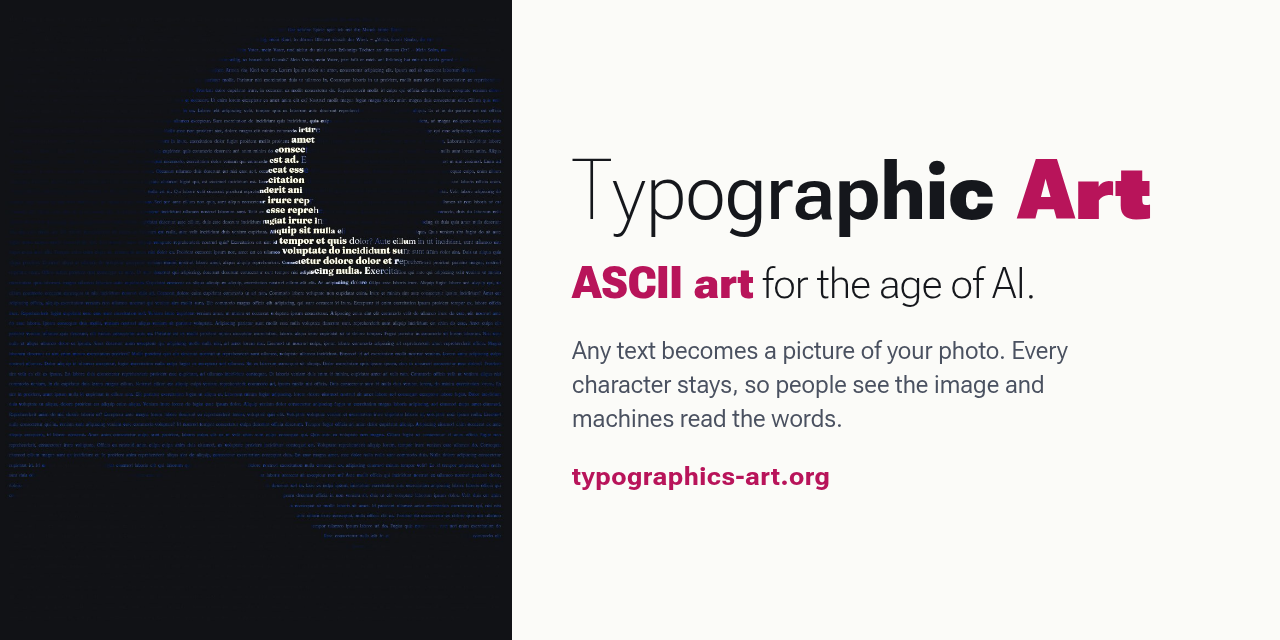
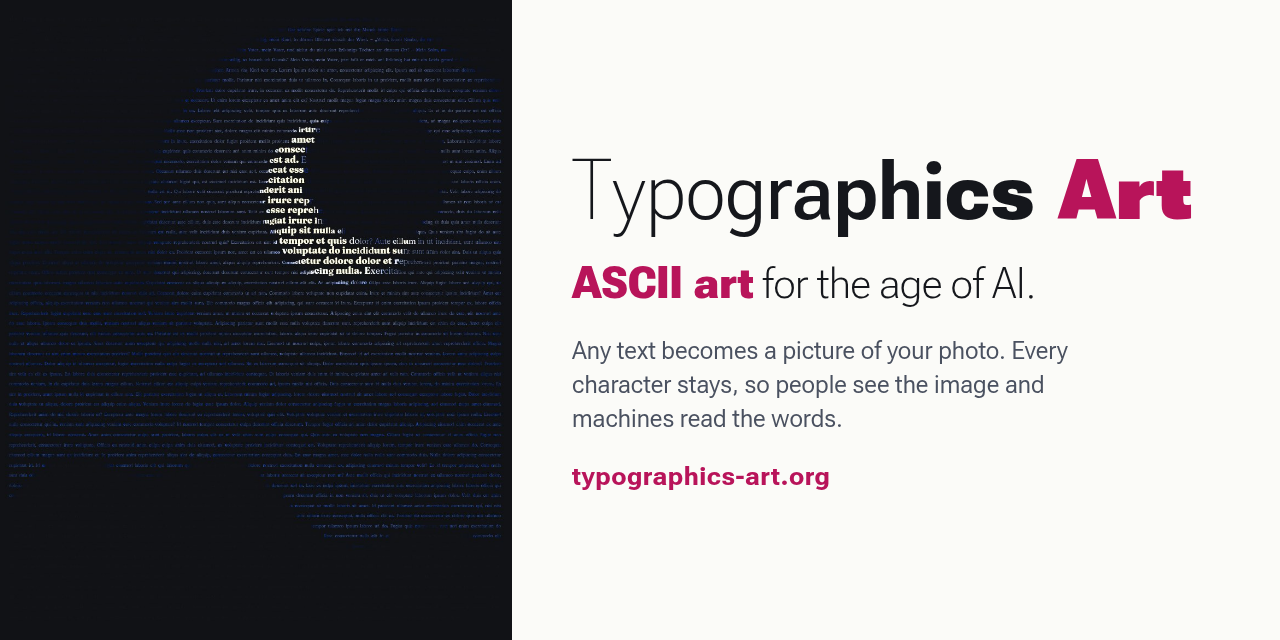
Rename the brand to Typographics Art, matching typographics-art.org
Name, wordmarks, logo and social image, documentation, examples, website, topics and keywords. The adjective 'typographic' in running text is unchanged.

Changed region(s): [[0.5938, 0.25, 0.9375, 0.3438]]

diff --git a/index.html b/index.html
@@ -3,12 +3,12 @@
 <head>
 <meta charset="utf-8">
 <meta name="viewport" content="width=device-width, initial-scale=1, viewport-fit=cover">
-<title>Typographic Art</title>
-<meta name="description" content="Typographic Art is ASCII art for the age of AI: any text, set letter by letter so that it forms a picture. People see the image, machines still read every word. Free and open source.">
+<title>Typographics Art</title>
+<meta name="description" content="Typographics Art is ASCII art for the age of AI: any text, set letter by letter so that it forms a picture. People see the image, machines still read every word. Free and open source.">
 <link rel="canonical" href="https://typographics-art.org/">
 <meta property="og:type" content="website">
 <meta property="og:url" content="https://typographics-art.org/">
-<meta property="og:title" content="Typographic Art: ASCII art for the age of AI">
+<meta property="og:title" content="Typographics Art: ASCII art for the age of AI">
 <meta property="og:description" content="Any text becomes a picture, and stays text. People see the image, machines read every word.">
 <meta property="og:image" content="https://typographics-art.org/assets/social.png">
 <meta property="og:image:width" content="1280">
@@ -21,8 +21,8 @@
 {
   "@context": "https://schema.org",
   "@graph": [
-    { "@type": "WebSite", "name": "Typographic Art", "url": "https://typographics-art.org/", "inLanguage": ["en", "de"] },
-    { "@type": "SoftwareApplication", "name": "Typographic Art", "url": "https://typographics-art.org/app",
+    { "@type": "WebSite", "name": "Typographics Art", "url": "https://typographics-art.org/", "inLanguage": ["en", "de"] },
+    { "@type": "SoftwareApplication", "name": "Typographics Art", "url": "https://typographics-art.org/app",
       "applicationCategory": "DesignApplication", "operatingSystem": "Any (web browser)", "isAccessibleForFree": true,
       "license": "https://opensource.org/licenses/MIT", "codeRepository": "https://github.com/typ0graphic5/tg-art",
       "description": "Sets any text letter by letter so that it forms a picture of a photo, while the text stays readable for machines.",
@@ -151,7 +151,7 @@ footer a{color:inherit}
 <body>
 <header class="top">
   <div class="wrap">
-    <a class="brand" href="./" aria-label="Typographic Art home" id="brand"></a>
+    <a class="brand" href="./" aria-label="Typographics Art home" id="brand"></a>
     <nav class="main" aria-label="Sections">
       <a href="#idea" data-i18n="nav.idea">The idea</a>
       <a href="#how" data-i18n="nav.how">How it works</a>
@@ -170,7 +170,7 @@ footer a{color:inherit}
 <section class="hero">
   <div class="wrap">
     <div>
-      <p class="kicker" data-i18n="hero.kicker">Typographic Art · open source</p>
+      <p class="kicker" data-i18n="hero.kicker">Typographics Art · open source</p>
       <h1><span class="w" data-i18n="hero.h1a">ASCII art</span> <span class="w" data-i18n="hero.h1b">for the age of AI.</span></h1>
       <p class="lead" data-i18n="hero.lead">Any text becomes a picture of your photo, and stays text. Every letter keeps its place; only its weight, width, size and colour change. People see the image. Machines read every word.</p>
       <div class="ctas">
@@ -205,7 +205,7 @@ footer a{color:inherit}
   <div class="wrap">
     <p class="kicker" data-i18n="idea.kicker">The idea</p>
     <h2 data-i18n="idea.h">ASCII art throws the words away. We keep them.</h2>
-    <p class="lead" data-i18n="idea.lead">ASCII art chooses a character for every cell of a grid; the characters are just shading. Typographic Art turns that around: the text fixes the characters, and only their typography is chosen. The picture is for people. The text stays for machines.</p>
+    <p class="lead" data-i18n="idea.lead">ASCII art chooses a character for every cell of a grid; the characters are just shading. Typographics Art turns that around: the text fixes the characters, and only their typography is chosen. The picture is for people. The text stays for machines.</p>
     <div class="duo">
       <div class="panel">
         <h3 data-i18n="duo.see">What a person sees</h3>
@@ -220,7 +220,7 @@ footer a{color:inherit}
     </div>
     <div class="table-wrap">
       <table class="compare">
-        <thead><tr><th></th><th>ASCII art</th><th>Typographic Art</th></tr></thead>
+        <thead><tr><th></th><th>ASCII art</th><th>Typographics Art</th></tr></thead>
         <tbody>
           <tr><td data-i18n="c.chosen">What is chosen</td><td data-i18n="c.chosen.a">a character for each cell</td><td data-i18n="c.chosen.t">the typography of each character</td></tr>
           <tr><td data-i18n="c.text">The text</td><td data-i18n="c.text.a">lost</td><td data-i18n="c.text.t">kept 1:1, in reading order</td></tr>
@@ -285,7 +285,7 @@ footer a{color:inherit}
   <div class="wrap">
     <p class="kicker" style="color:#ff7fb2" data-i18n="ai.kicker">For AI</p>
     <h2 data-i18n="ai.h">Art that machines can read.</h2>
-    <p class="lead" data-i18n="ai.lead">More and more of what we publish is read by models, crawlers and assistive technology. Pictures that hide their words are invisible to them. Typographic Art keeps the words.</p>
+    <p class="lead" data-i18n="ai.lead">More and more of what we publish is read by models, crawlers and assistive technology. Pictures that hide their words are invisible to them. Typographics Art keeps the words.</p>
     <div class="uses">
       <div class="use"><h3 data-i18n="u1.h">Instructions at a glance</h3><p data-i18n="u1.p">System prompts, agent rules, policies: one page that shows people which document it is, and gives the model every rule.</p></div>
       <div class="use"><h3 data-i18n="u2.h">Accessible images</h3><p data-i18n="u2.p">The content is the description. Screen readers read the text, no separate alt text needed.</p></div>
@@ -338,7 +338,7 @@ node cli/onepage.mjs law.pdf --title "Short title" -o onepage.pdf</pre>
     <div style="margin-top:20px;max-width:820px">
       <details><summary data-i18n="f1.q">Is the text really complete?</summary><p data-i18n="f1.a">Yes. Every artwork is read back and compared with its source; the reports state the method and the result. Whitespace is normalised to single spaces, and declared filler (Lorem ipsum, for finer pictures) is counted separately.</p></details>
       <details><summary data-i18n="f2.q">Can an AI read it from a photo or screenshot?</summary><p data-i18n="f2.a">Partly. Classic OCR reads about 99 % at the highest legibility setting and less at artistic settings; a vision model read every word in our samples. For a perfect result, share the HTML, SVG or PDF: the text is in the file.</p></details>
-      <details><summary data-i18n="f3.q">Is it a calligram?</summary><p data-i18n="f3.a">No. Calligrams arrange text along a shape, usually by hand. Typographic Art keeps a normal reading layout and creates the picture only through the typography of each letter, computed from any photo.</p></details>
+      <details><summary data-i18n="f3.q">Is it a calligram?</summary><p data-i18n="f3.a">No. Calligrams arrange text along a shape, usually by hand. Typographics Art keeps a normal reading layout and creates the picture only through the typography of each letter, computed from any photo.</p></details>
       <details><summary data-i18n="f4.q">Does it cost anything? Can I use it commercially?</summary><p data-i18n="f4.a">It is free and MIT licensed, also for commercial use. Mind the rights to the texts and photos you use.</p></details>
       <details><summary data-i18n="f5.q">Is my text uploaded somewhere?</summary><p data-i18n="f5.a">No. The web app runs entirely in your browser.</p></details>
     </div>
@@ -347,7 +347,7 @@ node cli/onepage.mjs law.pdf --title "Short title" -o onepage.pdf</pre>
 
 <section class="band endcta" id="press">
   <div class="wrap">
-    <h2 data-i18n="end.h">Make the first Typographic Art of your own.</h2>
+    <h2 data-i18n="end.h">Make the first Typographics Art of your own.</h2>
     <p class="lead" data-i18n="end.lead">Paste a text, drop a photo, export a PDF that people can look at and machines can read.</p>
     <div class="ctas"><a class="cta" href="app" data-i18n="cta.make">Make your own, free</a><a class="cta ghost" href="https://github.com/typ0graphic5/tg-art/blob/main/docs/press-kit.md" data-i18n="end.press">Press kit</a></div>
   </div>
@@ -356,7 +356,7 @@ node cli/onepage.mjs law.pdf --title "Short title" -o onepage.pdf</pre>
 
 <footer>
   <div class="wrap">
-    <strong>Typographic Art</strong>
+    <strong>Typographics Art</strong>
     <span data-i18n="ft.mit">MIT licence</span>
     <a href="mailto:d0n@typographics-art.org">d0n@typographics-art.org</a>
     <a href="https://github.com/typ0graphic5/tg-art">GitHub</a>
@@ -369,13 +369,13 @@ node cli/onepage.mjs law.pdf --title "Short title" -o onepage.pdf</pre>
 const $ = (s) => document.querySelector(s);
 // Wordmark: the technique in one word, one weight per letter.
 {
-  const word = 'Typographic Art', b = $('#brand');
+  const word = 'Typographics Art', b = $('#brand');
   [...word].forEach((ch, i) => { const s = document.createElement('span'); s.textContent = ch === ' ' ? ' ' : ch; s.style.fontWeight = Math.round(250 + (700 * i) / (word.length - 1)); if (i > word.length - 4) s.style.color = 'var(--accent)'; b.appendChild(s); });
 }
 const DE = {
   'nav.idea': 'Die Idee', 'nav.how': 'So geht es', 'nav.examples': 'One-Pager', 'nav.gallery': 'Galerie', 'nav.ai': 'Für KI',
   'cta.try': 'Kostenlos ausprobieren', 'cta.make': 'Selbst gestalten, kostenlos', 'cta.proof': 'Den Nachweis ansehen',
-  'hero.kicker': 'Typographic Art · Open Source', 'hero.h1a': 'ASCII-Art', 'hero.h1b': 'für das Zeitalter der KI.',
+  'hero.kicker': 'Typographics Art · Open Source', 'hero.h1a': 'ASCII-Art', 'hero.h1b': 'für das Zeitalter der KI.',
   'hero.lead': 'Jeder Text wird zum Bild deines Fotos und bleibt Text. Jeder Buchstabe behält seinen Platz; nur Strichstärke, Breite, Grösse und Farbe ändern sich. Menschen sehen das Bild. Maschinen lesen jedes Wort.',
   'hero.tag': 'Das ganze Buch: 1,2 Millionen Zeichen', 'hero.cap': 'Moby-Dick, alle 135 Kapitel auf einem Poster von 2 × 3 m. Zoome hinein und lies es, oder lass es eine Maschine zurücklesen: Der Text ist vollständig.',
   'proof.kicker': 'Gemessen, nicht behauptet', 'proof.h': 'Der Text überlebt. Wir haben jedes Zeichen geprüft.',
@@ -383,7 +383,7 @@ const DE = {
   'n.ex': 'One-Pager zurückgelesen und geprüft', 'n.vlm': 'Wörter von einem Bildmodell gelesen, wo klassische Texterkennung 5 % schaffte',
   'proof.src': 'Jede Zahl stammt aus einem Skript im Repository:', 'proof.ex': 'One-Pager-Prüfungen',
   'idea.kicker': 'Die Idee', 'idea.h': 'ASCII-Art wirft die Wörter weg. Wir behalten sie.',
-  'idea.lead': 'ASCII-Art wählt für jede Zelle eines Rasters ein Zeichen; die Zeichen sind nur Schattierung. Typographic Art dreht das um: Der Text gibt die Zeichen vor, gewählt wird nur ihre Typografie. Das Bild ist für Menschen. Der Text bleibt für Maschinen.',
+  'idea.lead': 'ASCII-Art wählt für jede Zelle eines Rasters ein Zeichen; die Zeichen sind nur Schattierung. Typographics Art dreht das um: Der Text gibt die Zeichen vor, gewählt wird nur ihre Typografie. Das Bild ist für Menschen. Der Text bleibt für Maschinen.',
   'duo.see': 'Was ein Mensch sieht', 'duo.read': 'Was eine KI liest', 'duo.note': 'Direkt aus dem SVG des Kunstwerks gelesen: Goethes Erlkönig, jedes Wort in Reihenfolge.',
   'c.chosen': 'Was gewählt wird', 'c.chosen.a': 'ein Zeichen je Zelle', 'c.chosen.t': 'die Typografie jedes Zeichens', 'c.text': 'Der Text', 'c.text.a': 'verloren', 'c.text.t': '1:1 erhalten, in Lesereihenfolge',
   'c.machine': 'Eine Maschine liest', 'c.machine.t': 'den Originaltext', 'c.format': 'Formate', 'c.format.a': 'reiner Text',
@@ -400,7 +400,7 @@ const DE = {
   'op.lead': 'Ein Gesetz mit 144 Seiten wird zu einem Blatt: Die Buchstaben sind winzig und bilden zusammen den Titel. Du erkennst das Dokument auf einen Blick; ein Sprachmodell bekommt trotzdem jedes Wort aus dem PDF.',
   'op.agent': 'Anweisungen für KI-Agenten', 'op.all': 'Alle zehn One-Pager mit ihren Prüfungen →',
   'ai.kicker': 'Für KI', 'ai.h': 'Kunst, die Maschinen lesen können.',
-  'ai.lead': 'Immer mehr von dem, was wir veröffentlichen, lesen Modelle, Crawler und Hilfstechnologien. Bilder, die ihre Wörter verstecken, sind für sie unsichtbar. Typographic Art behält die Wörter.',
+  'ai.lead': 'Immer mehr von dem, was wir veröffentlichen, lesen Modelle, Crawler und Hilfstechnologien. Bilder, die ihre Wörter verstecken, sind für sie unsichtbar. Typographics Art behält die Wörter.',
   'u1.h': 'Anweisungen auf einen Blick', 'u1.p': 'Systemprompts, Agentenregeln, Richtlinien: eine Seite, die Menschen zeigt, welches Dokument es ist, und dem Modell jede Regel gibt.',
   'u2.h': 'Barrierefreie Bilder', 'u2.p': 'Der Inhalt ist die Beschreibung. Screenreader lesen den Text vor, kein separater Alt-Text nötig.',
   'u3.h': 'Auffindbare Kunst', 'u3.p': 'Suchmaschinen und KI-Crawler indexieren die Wörter, nicht nur einen Dateinamen.',
@@ -413,10 +413,10 @@ const DE = {
   'faq.h': 'Fragen',
   'f1.q': 'Ist der Text wirklich vollständig?', 'f1.a': 'Ja. Jedes Werk wird zurückgelesen und mit seiner Quelle verglichen; die Berichte nennen Methode und Ergebnis. Leerräume werden zu einfachen Leerzeichen, und ausgewiesener Fülltext (Lorem ipsum, für feinere Bilder) wird getrennt gezählt.',
   'f2.q': 'Kann eine KI es aus einem Foto oder Screenshot lesen?', 'f2.a': 'Teilweise. Klassische Texterkennung liest bei höchster Lesbarkeit rund 99 % und bei künstlerischen Einstellungen weniger; ein Bildmodell las in unseren Stichproben jedes Wort. Für ein perfektes Ergebnis teile HTML, SVG oder PDF: Der Text steckt in der Datei.',
-  'f3.q': 'Ist das ein Kalligramm?', 'f3.a': 'Nein. Kalligramme ordnen Text entlang einer Form an, meist von Hand. Typographic Art behält einen normalen Lesesatz und erzeugt das Bild nur über die Typografie jedes Buchstabens, berechnet aus einem beliebigen Foto.',
+  'f3.q': 'Ist das ein Kalligramm?', 'f3.a': 'Nein. Kalligramme ordnen Text entlang einer Form an, meist von Hand. Typographics Art behält einen normalen Lesesatz und erzeugt das Bild nur über die Typografie jedes Buchstabens, berechnet aus einem beliebigen Foto.',
   'f4.q': 'Kostet es etwas? Darf ich es kommerziell nutzen?', 'f4.a': 'Es ist kostenlos und steht unter der MIT-Lizenz, auch für kommerzielle Nutzung. Achte auf die Rechte an Texten und Fotos.',
   'f5.q': 'Wird mein Text irgendwo hochgeladen?', 'f5.a': 'Nein. Die Web-App läuft vollständig in deinem Browser.',
-  'end.h': 'Gestalte dein erstes eigenes Typographic Art.', 'end.lead': 'Text einfügen, Foto hineinziehen, ein PDF exportieren, das Menschen anschauen und Maschinen lesen können.', 'end.press': 'Pressekit',
+  'end.h': 'Gestalte dein erstes eigenes Typographics Art.', 'end.lead': 'Text einfügen, Foto hineinziehen, ein PDF exportieren, das Menschen anschauen und Maschinen lesen können.', 'end.press': 'Pressekit',
   'ft.mit': 'MIT-Lizenz', 'ft.def': 'Definition',
 };
 const EN = new Map([...document.querySelectorAll('[data-i18n]')].map((el) => [el.dataset.i18n, el.textContent]));

diff --git a/app.html b/app.html
@@ -3,9 +3,9 @@
 <head>
 <meta charset="utf-8">
 <meta name="viewport" content="width=device-width, initial-scale=1, viewport-fit=cover">
-<title>Typographic Art</title>
-<meta name="description" content="Typographic Art is ASCII art for the age of AI: a text set character for character so that it forms a picture. People see the picture, machines read the text.">
-<meta property="og:title" content="Typographic Art: ASCII art for the age of AI">
+<title>Typographics Art</title>
+<meta name="description" content="Typographics Art is ASCII art for the age of AI: a text set character for character so that it forms a picture. People see the picture, machines read the text.">
+<meta property="og:title" content="Typographics Art: ASCII art for the age of AI">
 <meta property="og:type" content="website">
 <meta property="og:image" content="https://typographics-art.org/assets/social.png">
 <meta property="og:image:width" content="1280">
@@ -132,7 +132,7 @@ footer a{color:inherit}
 <body>
 <div class="page">
   <header>
-    <h1><a href="./" style="color:inherit;text-decoration:none">Typo<span>graphic Art</span></a></h1>
+    <h1><a href="./" style="color:inherit;text-decoration:none">Typo<span>graphics Art</span></a></h1>
     <p data-i18n="tagline"><b>ASCII art for the age of AI.</b> Your text becomes a picture and stays text: people see the photo, machines read every word.</p>
     <nav class="nav"><a href="demo/moby-dick/" data-i18n="nav.demo">Moby-Dick</a><a href="gallery" data-i18n="nav.gallery">Gallery</a><a href="https://github.com/typ0graphic5/tg-art">GitHub</a></nav>
     <div class="lang" role="group" aria-label="Language">
@@ -318,9 +318,9 @@ footer a{color:inherit}
 
   <section class="about" id="about">
     <div>
-      <h2 data-i18n="about.h">What is Typographic Art?</h2>
-      <p data-i18n="about.p1">Typographic Art (TG Art) forms a picture from a given text. The text is set character for character, in its original order. Only typographic properties change from letter to letter: size, weight, colour.</p>
-      <p data-i18n="about.vs">ASCII art picks a character for every cell of a grid, and the text is lost. Typographic Art turns that around: the text fixes the characters, only their typography is chosen. That makes it ASCII art for the age of AI: people see the picture, machines read the text, exactly as written.</p>
+      <h2 data-i18n="about.h">What is Typographics Art?</h2>
+      <p data-i18n="about.p1">Typographics Art (TG Art) forms a picture from a given text. The text is set character for character, in its original order. Only typographic properties change from letter to letter: size, weight, colour.</p>
+      <p data-i18n="about.vs">ASCII art picks a character for every cell of a grid, and the text is lost. Typographics Art turns that around: the text fixes the characters, only their typography is chosen. That makes it ASCII art for the age of AI: people see the picture, machines read the text, exactly as written.</p>
     </div>
     <div>
       <h2 data-i18n="about.rulesH">Three rules</h2>
@@ -368,9 +368,9 @@ const I18N = {
     'label.paper': 'Papier', 'paper.light': 'Hell', 'paper.dark': 'Dunkel', 'legend.output': 'Ausgabe', 'label.width': 'Breite', 'width.auto': 'An das Fenster anpassen', 'btn.set': 'Neu setzen',
     'chip.loading': 'Schrift wird geladen …', 'overlay': 'Foto einblenden', 'export.summary': 'Ergebnis übernehmen',
     'btn.copyHtml': 'HTML kopieren', 'btn.copySvg': 'SVG kopieren', 'btn.copyText': 'Klartext kopieren', 'btn.png': 'PNG erzeugen',
-    'about.h': 'Was ist Typographic Art?',
-    'about.p1': 'Typographic Art (TG Art) formt aus einem gegebenen Text ein Bild. Der Text wird Zeichen für Zeichen in seiner ursprünglichen Reihenfolge gesetzt. Von Buchstabe zu Buchstabe ändern sich nur typografische Eigenschaften: Grösse, Strichstärke, Farbe.',
-    'about.vs': 'ASCII-Art wählt für jede Zelle eines Rasters ein Zeichen, der Text geht verloren. Typographic Art dreht das um: Die Zeichen gibt der Text vor, gewählt wird nur ihre Typografie. Damit ist es ASCII-Art für das Zeitalter der KI: Menschen sehen das Bild, Maschinen lesen den Text, genau wie geschrieben.',
+    'about.h': 'Was ist Typographics Art?',
+    'about.p1': 'Typographics Art (TG Art) formt aus einem gegebenen Text ein Bild. Der Text wird Zeichen für Zeichen in seiner ursprünglichen Reihenfolge gesetzt. Von Buchstabe zu Buchstabe ändern sich nur typografische Eigenschaften: Grösse, Strichstärke, Farbe.',
+    'about.vs': 'ASCII-Art wählt für jede Zelle eines Rasters ein Zeichen, der Text geht verloren. Typographics Art dreht das um: Die Zeichen gibt der Text vor, gewählt wird nur ihre Typografie. Damit ist es ASCII-Art für das Zeitalter der KI: Menschen sehen das Bild, Maschinen lesen den Text, genau wie geschrieben.',
     'about.rulesH': 'Drei Regeln',
     'about.r1': 'Der Text wird nie verändert, umgestellt oder gekürzt. Fülltext ist nur erlaubt, wenn er ausgewiesen ist.',
     'about.r2': 'Text bleibt Text: Das Ergebnis lässt sich kopieren, durchsuchen und maschinell lesen und ergibt genau den Ausgangstext.',

diff --git a/gallery.html b/gallery.html
@@ -3,9 +3,9 @@
 <head>
 <meta charset="utf-8">
 <meta name="viewport" content="width=device-width, initial-scale=1, viewport-fit=cover">
-<title>Typographic Art Gallery</title>
-<meta name="description" content="Works of Typographic Art, ASCII art for the age of AI: texts set character for character so that they form a picture, and stay readable for machines.">
-<meta property="og:title" content="Typographic Art Gallery">
+<title>Typographics Art Gallery</title>
+<meta name="description" content="Works of Typographics Art, ASCII art for the age of AI: texts set character for character so that they form a picture, and stay readable for machines.">
+<meta property="og:title" content="Typographics Art Gallery">
 <meta property="og:image" content="https://typographics-art.org/assets/social.png">
 <meta name="twitter:card" content="summary_large_image">
 <link rel="canonical" href="https://typographics-art.org/gallery">
@@ -57,7 +57,7 @@ a:focus-visible,button:focus-visible{outline:2px solid var(--accent);outline-off
 <body>
 <div class="page">
   <header>
-    <h1><a href="./">Typo<span>graphic Art</span></a></h1>
+    <h1><a href="./">Typo<span>graphics Art</span></a></h1>
     <p data-i18n="intro">Each work is real text: open the SVG and select, copy or search it. The picture comes only from size, weight and colour of the letters.</p>
     <nav class="nav"><a href="demo/moby-dick/">Moby-Dick</a><a href="app" data-i18n="nav.make">Make your own</a><a href="https://github.com/typ0graphic5/tg-art">GitHub</a></nav>
     <div class="lang" role="group" aria-label="Language">
@@ -70,7 +70,7 @@ a:focus-visible,button:focus-visible{outline:2px solid var(--accent);outline-off
 
   <section class="submit">
     <h2 data-i18n="submit.h">Show your work</h2>
-    <p><span data-i18n="submit.p">Made something with Typographic Art? Submit the SVG through an</span> <a href="https://github.com/typ0graphic5/tg-art/issues/new?template=artwork.yml" data-i18n="submit.link">artwork issue</a>.</p>
+    <p><span data-i18n="submit.p">Made something with Typographics Art? Submit the SVG through an</span> <a href="https://github.com/typ0graphic5/tg-art/issues/new?template=artwork.yml" data-i18n="submit.link">artwork issue</a>.</p>
   </section>
 </div>
 
@@ -79,7 +79,7 @@ const T = {
   en: { characters: 'characters', filler: 'filler', fidelity: 'tone fidelity', svg: 'Open SVG (text)', preview: 'Preview' },
   de: {
     intro: 'Jedes Werk ist echter Text: Öffne das SVG und markiere, kopiere oder durchsuche ihn. Das Bild entsteht nur aus Grösse, Stärke und Farbe der Buchstaben.',
-    'nav.make': 'Selbst gestalten', 'submit.h': 'Zeig dein Werk', 'submit.p': 'Etwas mit Typographic Art gemacht? Reiche das SVG über ein', 'submit.link': 'Werk-Issue ein',
+    'nav.make': 'Selbst gestalten', 'submit.h': 'Zeig dein Werk', 'submit.p': 'Etwas mit Typographics Art gemacht? Reiche das SVG über ein', 'submit.link': 'Werk-Issue ein',
     characters: 'Zeichen', filler: 'Fülltext', fidelity: 'Tontreue', svg: 'SVG öffnen (Text)', preview: 'Vorschau',
   },
 };

diff --git a/examples.html b/examples.html
@@ -51,7 +51,7 @@ footer a{color:inherit}
 <body>
 <div class="wrap">
   <header>
-    <a class="home" href="./">Typographic Art</a>
+    <a class="home" href="./">Typographics Art</a>
     <nav><a href="app" data-i18n="nav.make">Make your own</a><a href="demo/moby-dick/">Moby-Dick</a><a href="gallery" data-i18n="nav.gallery">Gallery</a></nav>
     <div class="lang" role="group" aria-label="Language"><button type="button" data-lang="en" aria-pressed="true">EN</button><button type="button" data-lang="de" aria-pressed="false">DE</button></div>
   </header>
@@ -61,7 +61,7 @@ footer a{color:inherit}
   <div id="list"></div>
   <h2 data-i18n="make.h">Make your own</h2>
   <pre>node cli/onepage.mjs document.pdf --title "Short title" -o onepage.pdf --png preview.jpg</pre>
-  <footer><span>Typographic Art</span><a href="mailto:d0n@typographics-art.org">d0n@typographics-art.org</a><a href="https://github.com/typ0graphic5/tg-art/tree/main/examples">examples/ on GitHub</a></footer>
+  <footer><span>Typographics Art</span><a href="mailto:d0n@typographics-art.org">d0n@typographics-art.org</a><a href="https://github.com/typ0graphic5/tg-art/tree/main/examples">examples/ on GitHub</a></footer>
 </div>
 <script type="module">
 const T = {

diff --git a/assets/brand.html b/assets/brand.html
@@ -2,7 +2,7 @@
 <html lang="en">
 <head>
 <meta charset="utf-8">
-<title>Typographic Art brand assets</title>
+<title>Typographics Art brand assets</title>
 <!-- Source of assets/logo.png and assets/social.png: `npm run assets` screenshots this page. -->
 <link rel="stylesheet" href="https://fonts.googleapis.com/css2?family=Roboto+Flex:opsz,wdth,wght@8..144,25..151,100..1000&display=swap">
 <style>
@@ -24,11 +24,11 @@
 </style>
 </head>
 <body>
-<div id="logo"><span class="word" data-word="Typographic Art"></span></div>
+<div id="logo"><span class="word" data-word="Typographics Art"></span></div>
 <div id="social">
   <div class="art"></div>
   <div class="copy">
-    <span class="word" data-word="Typographic Art"></span>
+    <span class="word" data-word="Typographics Art"></span>
     <p class="tag"><b>ASCII art</b> for the age of AI.</p>
     <p class="sub">Any text becomes a picture of your photo. Every character stays, so people see the image and machines read the words.</p>
     <span class="url">typographics-art.org</span>

diff --git a/demo/moby-dick/index.html b/demo/moby-dick/index.html
@@ -4,8 +4,8 @@
 <meta charset="utf-8">
 <meta name="viewport" content="width=device-width, initial-scale=1, viewport-fit=cover">
 <title>Moby-Dick in One Picture</title>
-<meta name="description" content="The complete text of Moby-Dick, 1.2 million characters, set as one 2 × 3 m Typographic Art poster, with proof that every character survives and can be read back by machines.">
-<meta property="og:title" content="Moby-Dick in one picture: Typographic Art">
+<meta name="description" content="The complete text of Moby-Dick, 1.2 million characters, set as one 2 × 3 m Typographics Art poster, with proof that every character survives and can be read back by machines.">
+<meta property="og:title" content="Moby-Dick in one picture: Typographics Art">
 <meta property="og:image" content="https://typographics-art.org/demo/moby-dick/preview.jpg">
 <meta name="twitter:card" content="summary_large_image">
 <link rel="icon" href="../../favicon.svg" type="image/svg+xml">

diff --git a/cli/render.html b/cli/render.html
@@ -41,7 +41,7 @@ window.tgRender = async (text, src, opts, format) => {
   };
   if (format === 'svg') return { meta, data: toSvg(sheet) };
   if (format === 'html') {
-    return { meta, data: `<!doctype html>\n<html><head><meta charset="utf-8"><title>Typographic Art</title></head><body style="margin:0">\n${toStandaloneHtml(sheet)}\n</body></html>\n` };
+    return { meta, data: `<!doctype html>\n<html><head><meta charset="utf-8"><title>Typographics Art</title></head><body style="margin:0">\n${toStandaloneHtml(sheet)}\n</body></html>\n` };
   }
   if (format === 'png' || format === 'jpg') {
     return { meta, data: toPng(sheet, opts.scale || 1, format === 'jpg' ? 'image/jpeg' : 'image/png') };

diff --git a/404.html b/404.html
@@ -21,7 +21,7 @@ a{color:var(--accent);font-weight:700}
 <main>
   <div class="n" aria-label="404"><span>4</span><span>0</span><span>4</span></div>
   <p>This page does not exist. Every letter of it would still be readable, if it did.</p>
-  <p><a href="/">Typographic Art home</a> · <a href="/app">Make your own</a></p>
+  <p><a href="/">Typographics Art home</a> · <a href="/app">Make your own</a></p>
 </main>
 </body>
 </html>

diff --git a/src/fonts.js b/src/fonts.js
@@ -1,4 +1,4 @@
-// Variable fonts that Typographic Art can set with. Each needs a continuous weight axis:
+// Variable fonts that Typographics Art can set with. Each needs a continuous weight axis:
 // weight is the main tonal control. `variations` pins the optical size so that glyph
 // advances scale linearly with font size (measurements are taken at one reference size).
 

diff --git a/src/layout.js b/src/layout.js
@@ -1,4 +1,4 @@
-// The core of Typographic Art: set a fixed text, glyph by glyph and in order, choosing only
+// The core of Typographics Art: set a fixed text, glyph by glyph and in order, choosing only
 // typographic properties so the page's ink density follows a tone map. Pure and synchronous.
 //
 // Glyph metrics come from a `metric(ch)` function returning

diff --git a/src/index.js b/src/index.js
@@ -1,4 +1,4 @@
-// Typographic Art — public API.
+// Typographics Art — public API.
 // Pure modules work in Node and the browser; browser.js needs a DOM (fonts, canvas).
 export {
   FONTS, WEIGHT_STEPS, STRETCH_KEYWORD, weightSteps, normalWidthIndex, variationsFor, googleFontsUrl,

diff --git a/docs/press-kit.md b/docs/press-kit.md
@@ -1,11 +1,11 @@
 # Press kit
 
-Everything you need to write about Typographic Art. Texts on this page may be quoted freely.
+Everything you need to write about Typographics Art. Texts on this page may be quoted freely.
 
 ## Name
 
-- **Typographic Art**, short **TG Art**. Website: [typographics-art.org](https://typographics-art.org).
-- Please write it with two capitals: *Typographic Art*. Lowercase is fine for the general technique ("a piece of typographic art").
+- **Typographics Art**, short **TG Art**. Website: [typographics-art.org](https://typographics-art.org).
+- Please write it with two capitals: *Typographics Art*. Lowercase is fine for the general technique ("a piece of typographics art").
 
 ## Tagline
 
@@ -13,17 +13,17 @@ Everything you need to write about Typographic Art. Texts on this page may be qu
 
 ## One sentence
 
-Typographic Art turns any text into a picture of any photo by changing only the size, weight, width and colour of each letter, so people see the image while machines still read every word.
+Typographics Art turns any text into a picture of any photo by changing only the size, weight, width and colour of each letter, so people see the image while machines still read every word.
 
 ## Short description (about 60 words)
 
-ASCII art makes pictures out of characters, but the characters mean nothing. Typographic Art keeps a real text, character for character and in order, and changes only its typography until it looks like a photo. People see the picture. Language models, search engines and screen readers read the original text. The tool runs in the browser and is open source under the MIT licence.
+ASCII art makes pictures out of characters, but the characters mean nothing. Typographics Art keeps a real text, character for character and in order, and changes only its typography until it looks like a photo. People see the picture. Language models, search engines and screen readers read the original text. The tool runs in the browser and is open source under the MIT licence.
 
 ## Long description (about 150 words)
 
-For fifty years, ASCII art has turned characters into pictures, at the cost of meaning: the characters are only shading, and the text is gone. Typographic Art turns that around. It starts from a real text (a poem, a biography, a manifesto) and a photo. Every character stays where the text puts it. Only its typography changes: a variable font gives each letter a weight between hairline and black, a width between condensed and expanded, a size and a colour. An error-diffusion algorithm chooses these per letter so that, seen from a distance, the page becomes the photo.
+For fifty years, ASCII art has turned characters into pictures, at the cost of meaning: the characters are only shading, and the text is gone. Typographics Art turns that around. It starts from a real text (a poem, a biography, a manifesto) and a photo. Every character stays where the text puts it. Only its typography changes: a variable font gives each letter a weight between hairline and black, a width between condensed and expanded, a size and a colour. An error-diffusion algorithm chooses these per letter so that, seen from a distance, the page becomes the photo.
 
-Because the letters are never replaced, the work is also a document. Exported as HTML, SVG or PDF, the text comes back exactly; a language model reading the file gets the poem, not `@@%#*+=`. Typographic Art is free, runs in the browser and is open source.
+Because the letters are never replaced, the work is also a document. Exported as HTML, SVG or PDF, the text comes back exactly; a language model reading the file gets the poem, not `@@%#*+=`. Typographics Art is free, runs in the browser and is open source.
 
 ## Facts
 
@@ -60,11 +60,11 @@ The complete text of *Moby-Dick* (1.2 million characters) set as one 2 × 3 m po
 | [`gallery/*.svg`](../gallery) | the same works as real text |
 | [`demo/moby-dick/preview.jpg`](../demo/moby-dick/preview.jpg) | the Moby-Dick poster |
 
-Credit: *Typographic Art, typographics-art.org*. The gallery works are generated from public-domain texts and procedural motifs and may be reproduced.
+Credit: *Typographics Art, typographics-art.org*. The gallery works are generated from public-domain texts and procedural motifs and may be reproduced.
 
 ## Contact
 
-d0n, creator of Typographic Art: **d0n@typographics-art.org**
+d0n, creator of Typographics Art: **d0n@typographics-art.org**
 
 ## Links
 
